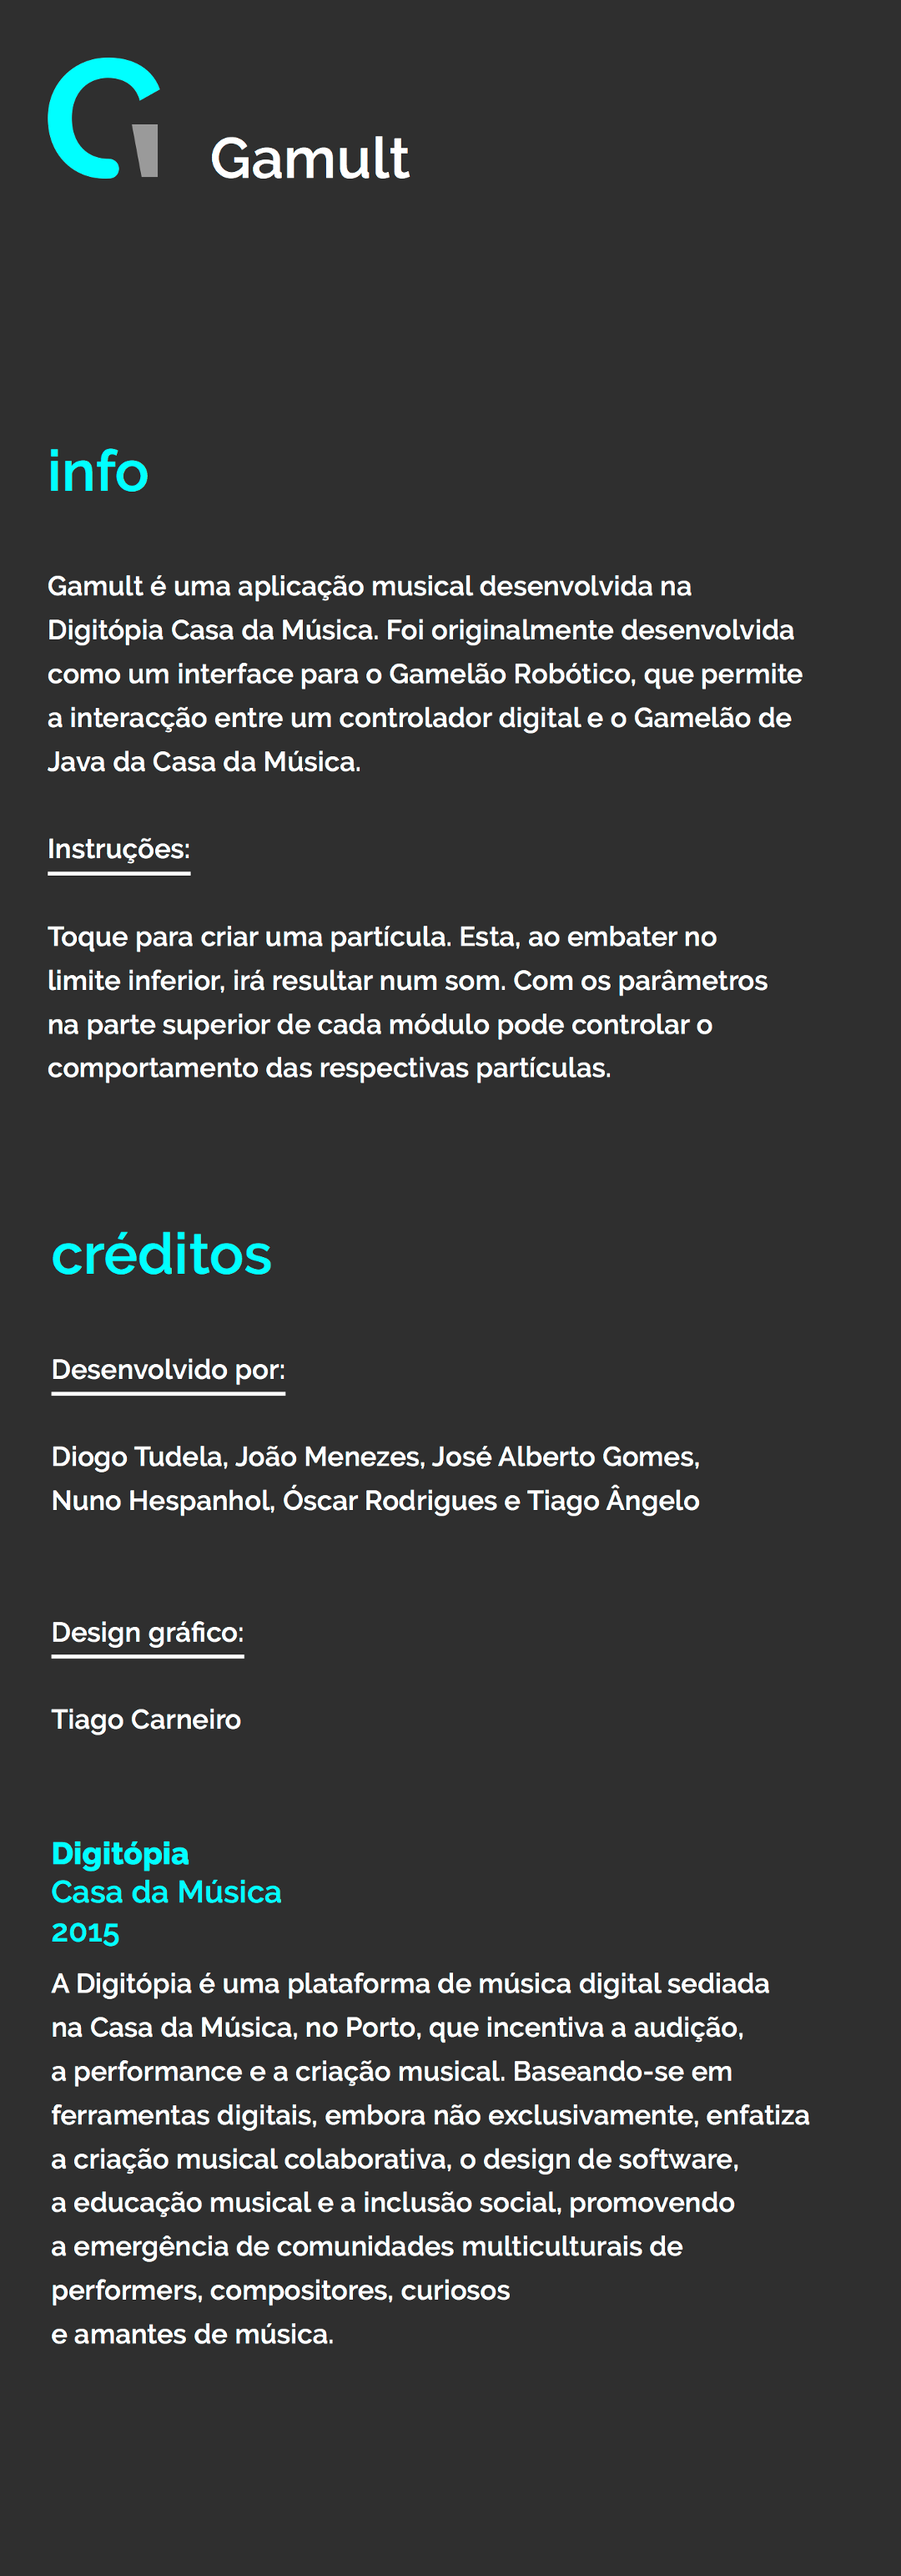
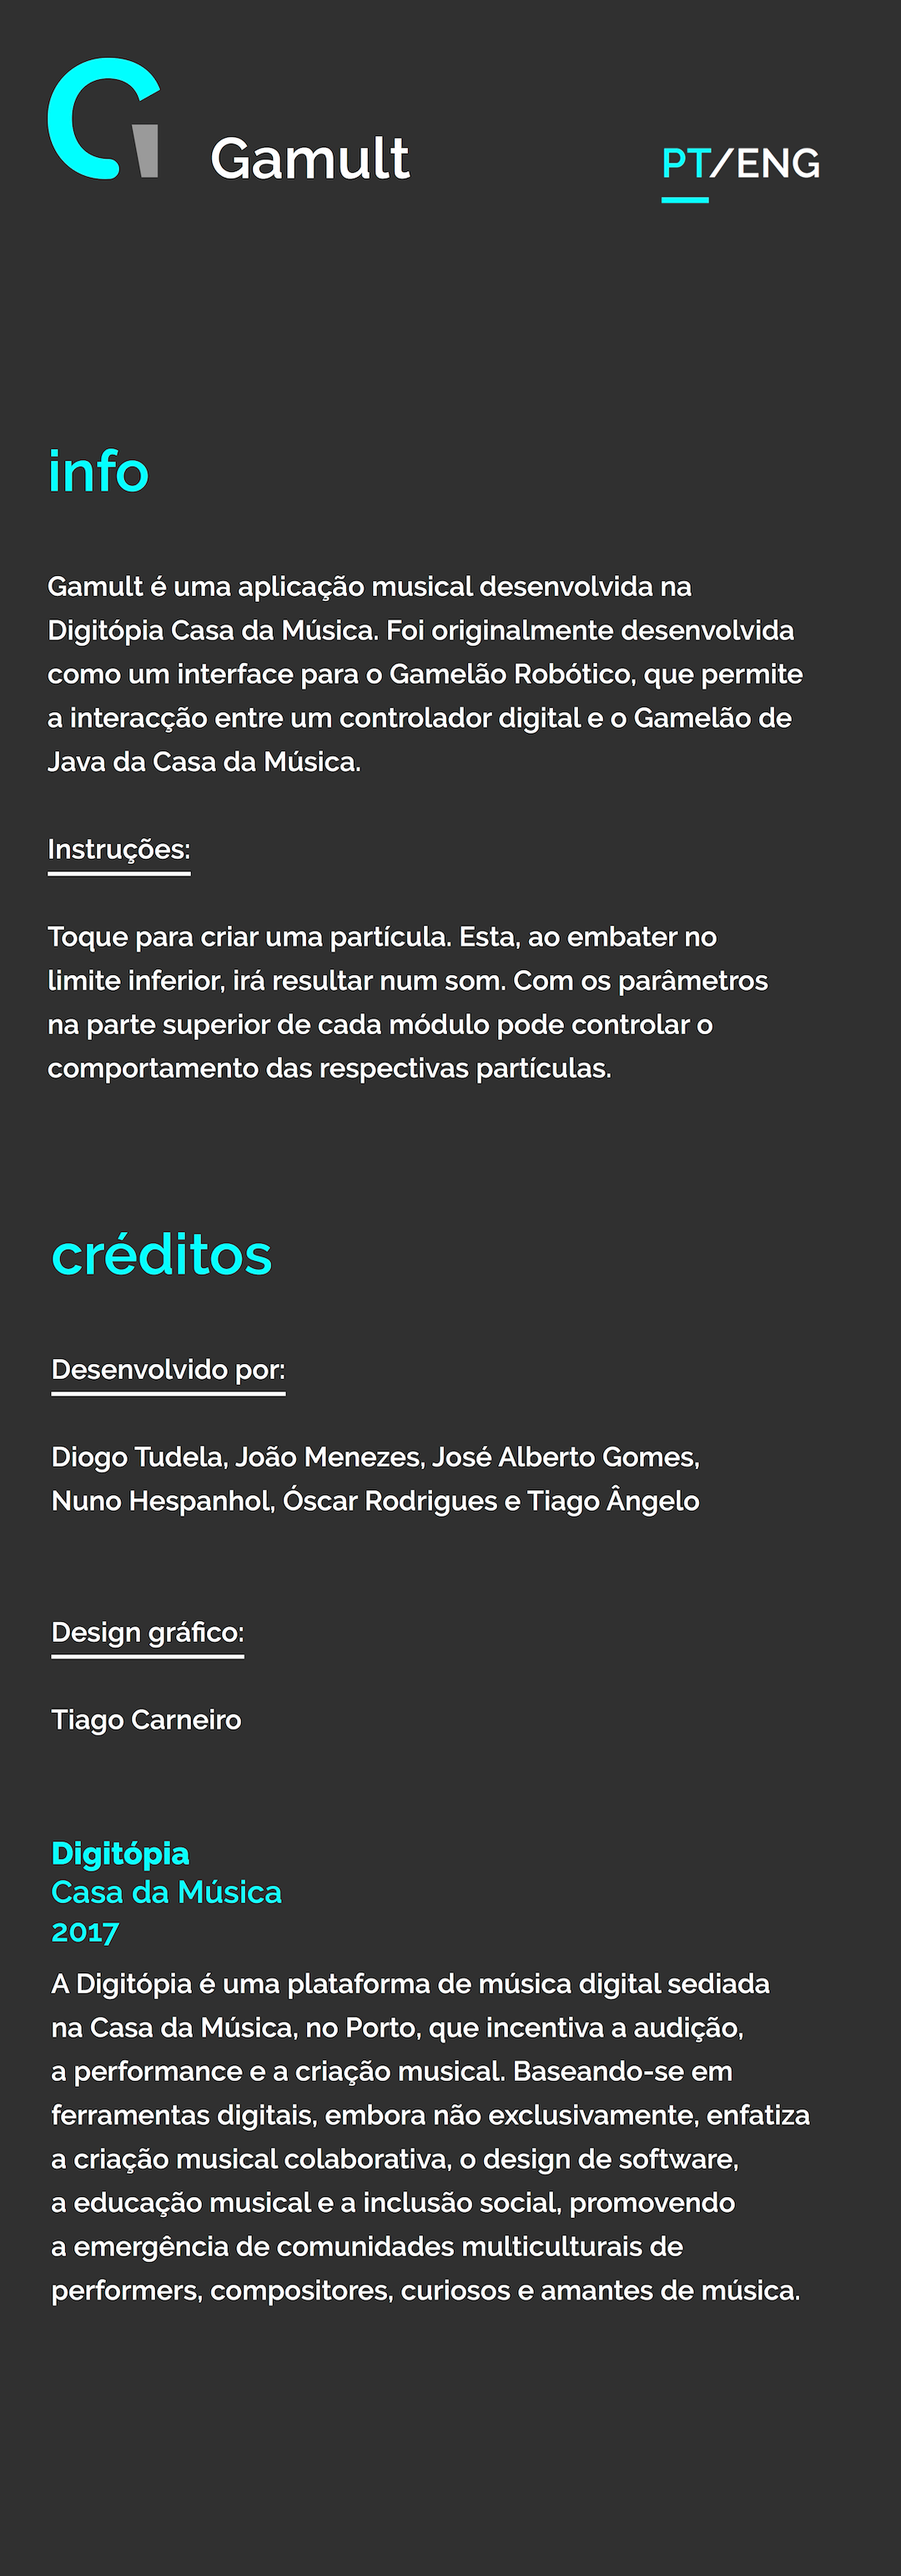
Finishes language selection

diff --git a/src/ofApp.cpp b/src/ofApp.cpp
@@ -80,7 +80,7 @@ void ofApp::setup() {
     if (multitouch) ofHideCursor();
 
     ofApp::language = ofApp::getSystemLanguage();
-//    ofApp::language = "pt";
+    // ofApp::language = "pt";
     ofLogNotice() << "Language is " << ofApp::language;
 
     initTranslations();
@@ -319,6 +319,37 @@ void ofApp::resetModules() {
     }
 }
 
+void ofApp::setLanguageBBoxes() {
+
+    // NOTE: extremely hacky solution but it works and gets the job done, so keep calm and don't worry
+    
+    int y = ofGetHeight() * 0.078;
+
+    if (crop < y) {
+
+        y -= crop;
+        int w = ofGetWidth() * 0.1;
+        int h = ofGetHeight() * 0.05;
+
+        ptLangRect.set(ofGetWidth()*0.715, y, w, h);
+        enLangRect.set(ofGetWidth()*0.815, y, w, h);
+
+        // NOTE: uncomment for debug
+        // ofNoFill();
+        // ofDrawRectangle(ptLangRect);
+        // ofDrawRectangle(enLangRect);
+
+    }
+    else {
+        // NOTE: this way .inside() never gets triggered
+        ptLangRect.set(0, 0, 0, 0);
+        enLangRect.set(0, 0, 0, 0);
+    }
+    
+    // ofLogNotice() << "crop is " << crop;
+
+}
+
 void ofApp::draw() {
 
     ofBackground(BACKGROUND_COLOR);
@@ -351,6 +382,7 @@ void ofApp::draw() {
     else if (appState == ABOUT) {
         if(ofApp::isPhone()){
             imgAbout.drawSubsection(0.0f, 0.0f, (float)ofGetWidth(), (float)ofGetHeight(), 0.0f, (float)crop);
+            setLanguageBBoxes();
         }
         else {
             imgAbout.draw(0, 0, ofGetWidth(), ofGetHeight());
@@ -764,6 +796,10 @@ void ofApp::touchDown(ofTouchEventArgs& touch) {
         if (arrowDownRect.inside(x, y)) {
             appState = ABOUT_DESCENDING;
         }
+
+        if (ptLangRect.inside(x,y)) changeLanguage("pt");
+        else if (enLangRect.inside(x,y)) changeLanguage("en");
+        
         return;
     }
 
@@ -786,7 +822,7 @@ void ofApp::touchDown(ofTouchEventArgs& touch) {
 
         // NOTE: dismiss swipe info after first touch
         if (showSwipeInfo) showSwipeInfo = false;
-
+        
         // ofLogNotice() << "down (" << id << ", " << x << ", " << y << ")" ;
 
         if (y > CONSOLE_HEIGHT*ofGetHeight() && (appState != BAR || y < aboutY) && modules[getModuleIdx(x)]->isNotFull()) {
@@ -799,6 +835,15 @@ void ofApp::touchDown(ofTouchEventArgs& touch) {
     swiping = false;
     #endif
 
+}
+
+void ofApp::changeLanguage(string language) {
+    ofLogNotice() << "Changing language to " << language;
+    if (language == ofApp::language) return;
+    ofApp::language = language;
+    initTranslations();
+    initImages();
+    setupModules();
 }
 
 void ofApp::touchMoved(ofTouchEventArgs& touch) {

diff --git a/src/ModuleConsole.cpp b/src/ModuleConsole.cpp
@@ -85,7 +85,13 @@ void ModuleConsole::setDimensions(int x, int width, bool first) {
         faderSize,
         first
     );
-
+    
+    btnGravity->setTitle(ofApp::translations["BUTTON_GRAVITY_TEXT"]);
+    btnFreeze->setTitle(ofApp::translations["BUTTON_FREEZE_TEXT"]);
+    btnRemove->setTitle(ofApp::translations["BUTTON_REMOVE_TEXT"]);
+    btnClear->setTitle(ofApp::translations["BUTTON_CLEAR_TEXT"]);
+    fadSpeed->setTitle(ofApp::translations["FADER_SPEED_TEXT"]);
+    
 }
 
 void ModuleConsole::draw() {

diff --git a/src/ofApp.h b/src/ofApp.h
@@ -98,6 +98,8 @@ public:
 
     void appStateHandler();
     void inactivityHandler();
+    void setLanguageBBoxes();
+    void changeLanguage(string language);
 
     static size_t getModuleIdx(unsigned int x);
     void drawArrow(bool up);
@@ -180,7 +182,7 @@ private:
     inactivityStateEnum inactivityState;
 
     ofRectangle barRect;
-    ofRectangle aboutRect;
+    ofRectangle ptLangRect, enLangRect;
 
     ofxImage imgAbout;
     ofxImage imgSplashScreen;

diff --git a/src/Fader.h b/src/Fader.h
@@ -14,6 +14,7 @@ public:
     float getValue();
     void setValue(float value);
     void resetFader() { this->rect.x = this->x0+range/2-size/2; }
+    void setTitle(string title) { this->title = title; }
 
     void touchDown(ofTouchEventArgs& event);
     void touchMoved(ofTouchEventArgs& event);

diff --git a/src/Button.h b/src/Button.h
@@ -22,6 +22,7 @@ public:
     void on() { state = true; }
     void off() { state = false; }
     void setDimensions(int size, int x, int y);
+    void setTitle(string title) { this->title = title; }
 
     void touchDown(ofTouchEventArgs& event);
     void touchMoved(ofTouchEventArgs& event);
